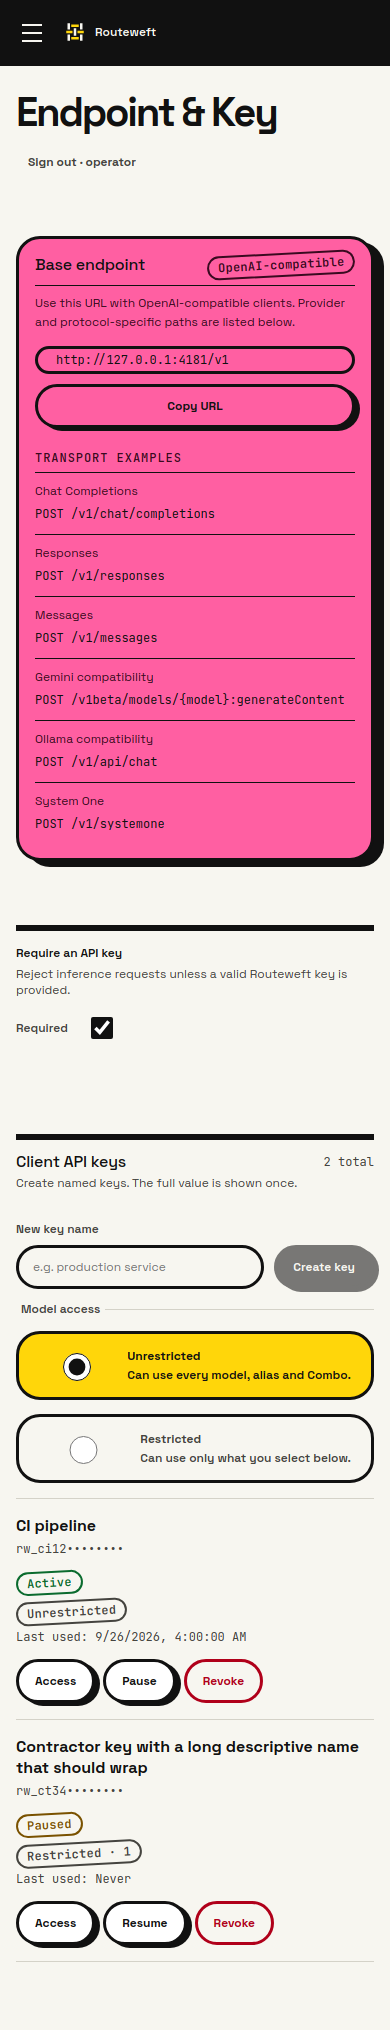
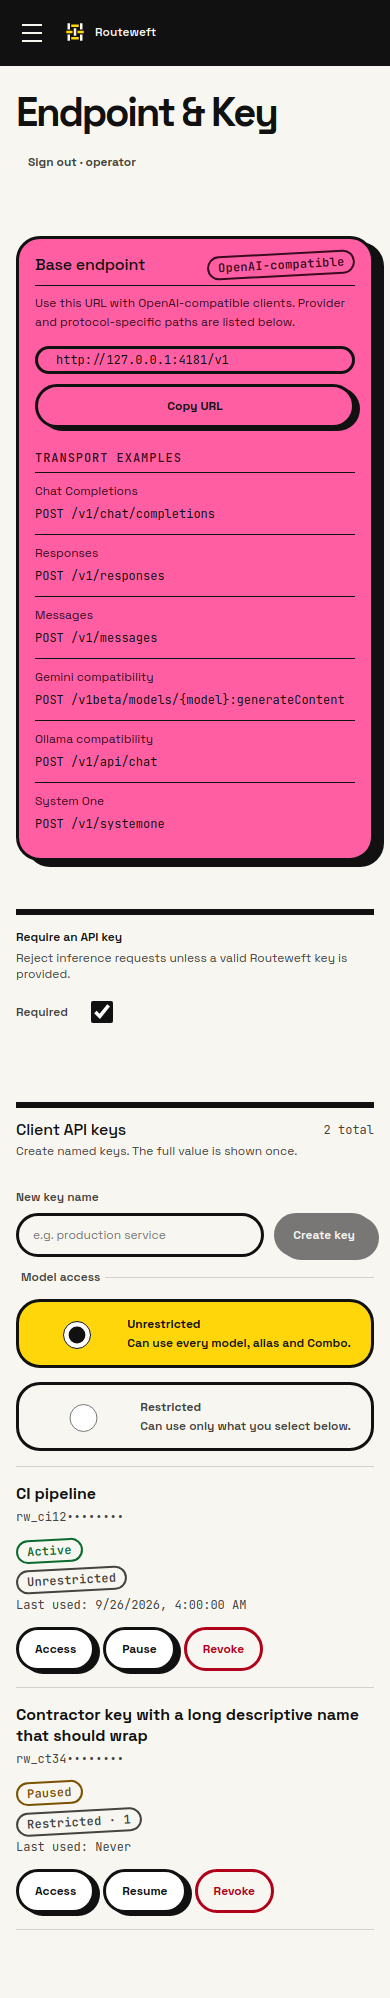
fix(ui): Hermes nits on phase 3a: endpoint rhythm, deterministic route column, folded rule (#263)
The Endpoint & Key wrapper is itself a grid, so its 16px gap added to the page
rhythm (88px, documented 72px): the gap is now 0 there. The desktop request-log
route relied on max-width in an auto table layout, which Gecko ignores: the log
table is now table-layout fixed with the route column at 40%. The duplicate
.access-modes label declaration is folded into one. Screenshots regenerated.

diff --git a/ui/src/style.css b/ui/src/style.css
@@ -985,6 +985,7 @@ h1 { font-size: var(--t-poster); font-weight: 700; letter-spacing: -.055em; line
 /* ---- Page bodies in direction D (#263, phase 3a): Overview, Endpoint & Key, Combo, System One ----
    Scoped by .page-d so phases 3b and 3c adopt the same rules one page at a time (add the class to the page's wrapper). */
 .page-d { --page-gap: 72px; }
+.page-d.endpoint-content { gap: 0; }
 .page-d > * + * { margin-top: var(--page-gap); }
 .page-d > :is([role="alert"], [role="status"], .auth-error, .inline-notice) { margin-top: 0; }
 .page-d > :is([role="alert"], [role="status"], .auth-error, .inline-notice) + * { margin-top: 24px; }
@@ -1009,7 +1010,7 @@ h1 { font-size: var(--t-poster); font-weight: 700; letter-spacing: -.055em; line
 /* Choices are outlined pills of their own; the chosen one is a highlight block and still says so in words. */
 .page-d .access-picker { padding: 14px 0 0; border: 0; border-top: 1px solid var(--border-subtle); border-radius: 0; }
 .page-d .access-modes { gap: 14px; }
-.page-d .access-modes label { align-items: center; border: 3px solid var(--outline); border-radius: var(--radius-state); padding: 14px 20px; }
+.page-d .access-modes label { align-items: center; justify-content: flex-start; gap: 14px; border: 3px solid var(--outline); border-radius: var(--radius-state); padding: 14px 20px; }
 .page-d .access-modes label:has(input:checked) { color: var(--highlight-ink); background: var(--highlight); }
 .page-d .access-modes label:has(input:checked) :is(span, small) { color: var(--highlight-ink); }
 .page-d .access-modes input { width: 22px; height: 22px; }
@@ -1035,7 +1036,6 @@ h1 { font-size: var(--t-poster); font-weight: 700; letter-spacing: -.055em; line
 .page-d .accent-surface .section-heading { border-top: 0; border-bottom: 1px solid var(--border-subtle); padding: 0 0 12px; }
 /* A toolbar and what it controls are one group, not two sections. */
 .page-d > :is(.combos-toolbar, .systemone-toolbar) + * { margin-top: 32px; }
-.page-d .access-modes label { justify-content: flex-start; gap: 14px; }
 .page-d .access-modes label span { text-align: left; }
 /* Optional settings of a form are an open block under a hairline, not a boxed fieldset. */
 .page-d .combo-tuning { margin: 4px 0 0; padding: 14px 0 0; border: 0; border-top: 1px solid var(--border-subtle); border-radius: 0; }
@@ -1046,7 +1046,7 @@ h1 { font-size: var(--t-poster); font-weight: 700; letter-spacing: -.055em; line
 .page-d .systemone-layout form { margin-top: 32px; padding-top: 24px; border-top: 1px solid var(--border-subtle); }
 /* A route is one line: the cell ends in an ellipsis and the full route is its title. On a phone the stacked row gives it the full first line (the 14ch cap of the older log table is lifted there). */
 @media (max-width: 700px) { .page-d .log-table td.log-route { max-width: none; } }
-@media (min-width: 701px) { .page-d .log-table td.log-route { width: 34%; max-width: 0; overflow: hidden; text-overflow: ellipsis; white-space: nowrap; } }
+@media (min-width: 701px) { .page-d .log-table { table-layout: fixed; } .page-d .log-table thead th:first-child { width: 40%; } .page-d .log-table td.log-route { max-width: 0; overflow: hidden; text-overflow: ellipsis; white-space: nowrap; } }
 
 @media (max-width: 900px) { .page-d { --page-gap: 56px; } .page-d .systemone-layout { grid-template-columns: minmax(0, 1fr); } }
 @media (max-width: 700px) {
